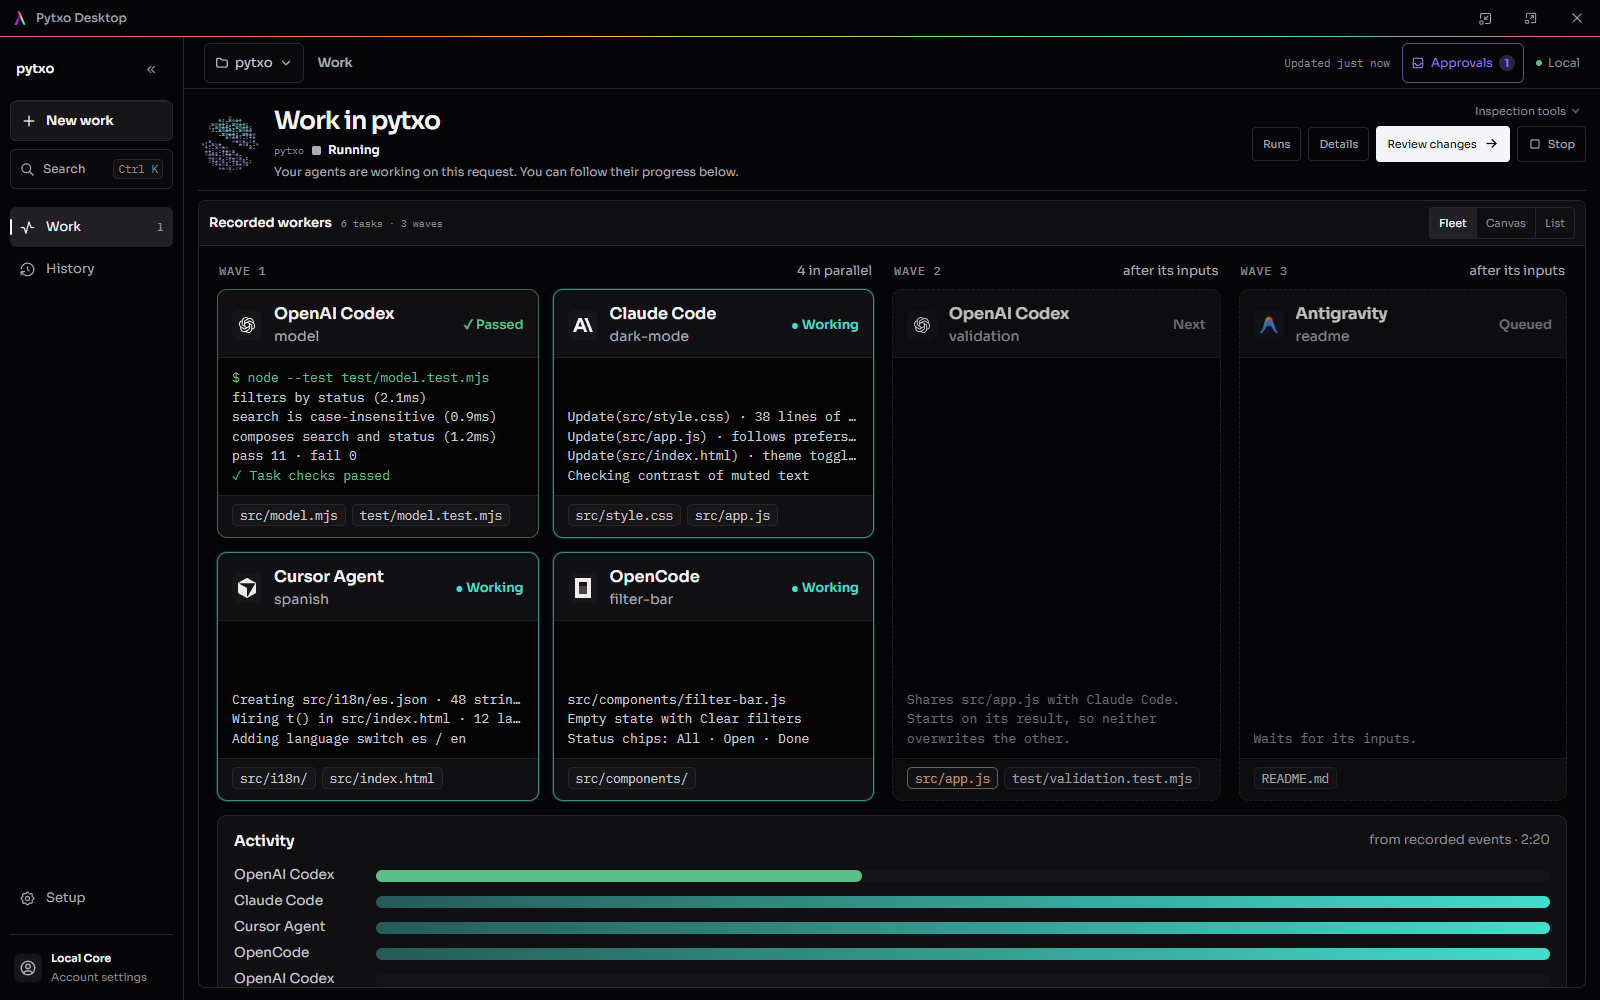
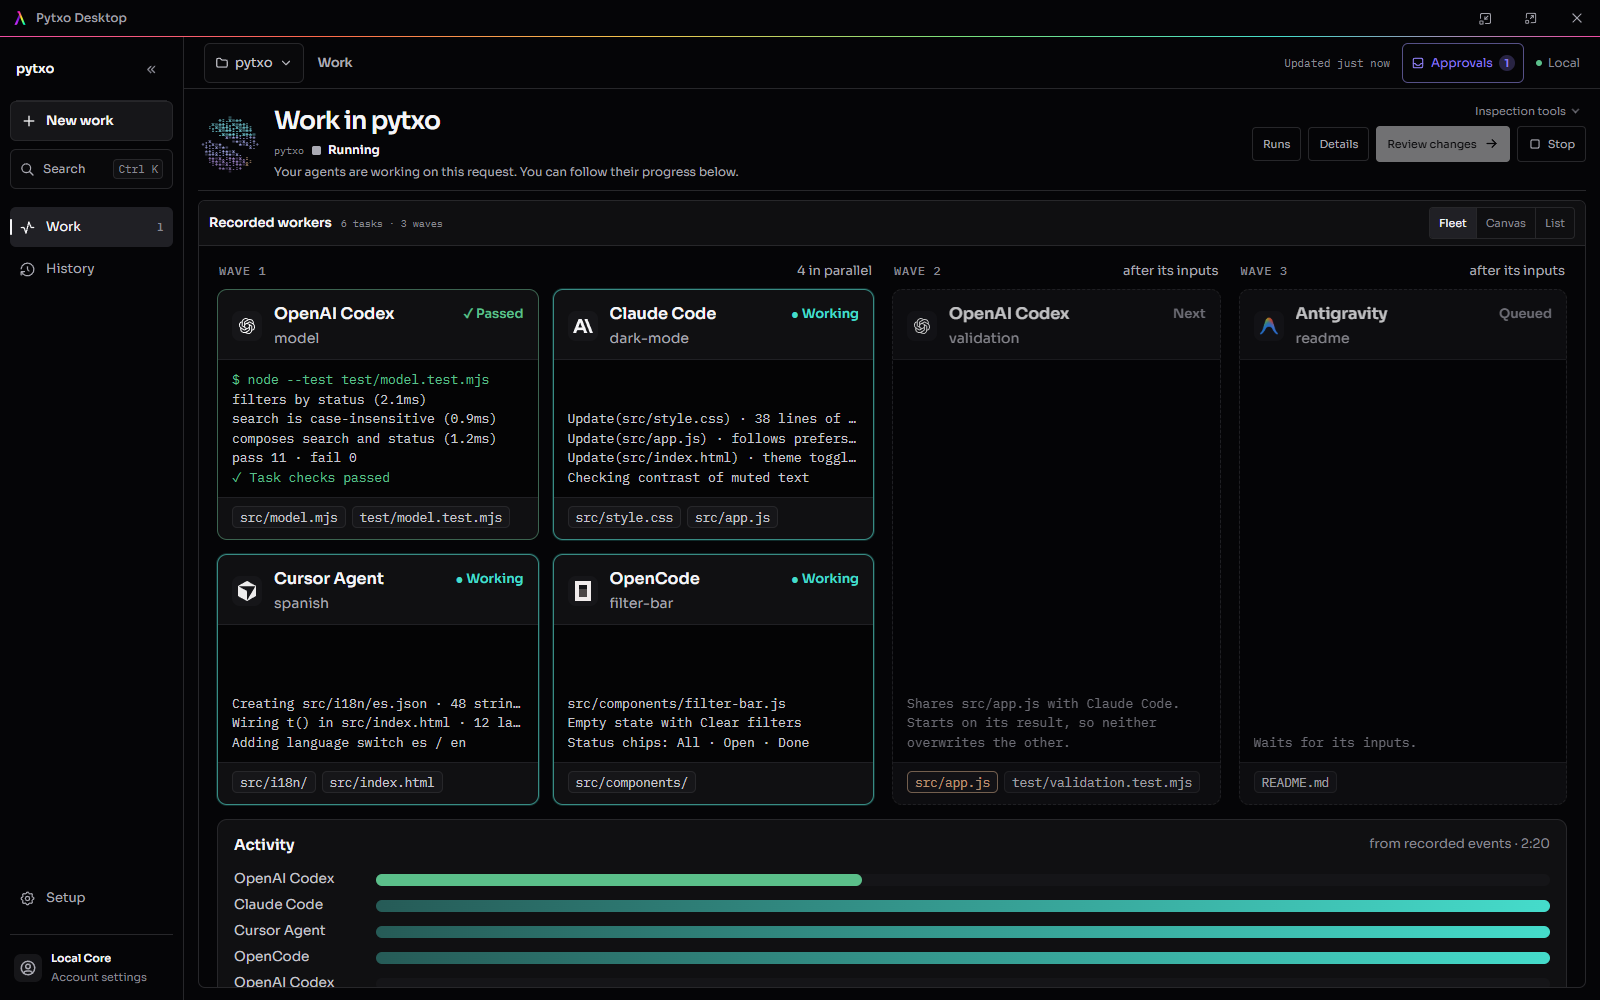
fix: honest fleet outcomes and native fleet evidence
- A worker that passed its checks but prepared no files reads 'No changes'
  on the fleet board instead of a check mark.
- A stale Apply refusal shows only the stale status, not the raw runner
  error beneath it.
- Fleet demo docs: OpenCode needs a stored provider credential because
  workers never receive environment API keys; setup commits template
  bytes without line-ending conversion.
- RELEASE_READINESS records the native six-agent run and its blockers.
- Fleet captures regenerated with the corrected card header.

diff --git a/apps/desktop/src/components/desktop2/FleetBoard.svelte b/apps/desktop/src/components/desktop2/FleetBoard.svelte
@@ -38,6 +38,8 @@
     return null;
   }
   const orderedShares = $derived(waves.flat().filter((task) => sharedOwner(task)).length);
+  /** Tasks with prepared files; null until a candidate exists. A worker can pass its checks and change nothing. */
+  const preparedTasks = $derived(review?.prepared_manifest ? new Set(review.prepared_manifest.files.map((file) => file.task_id)) : null);
 
   let tails = $state<Record<string, Tail>>({});
   let now = $state(Date.now());
@@ -134,11 +136,12 @@
             {@const lines = agent && tails[agent.id] ? eventLines(tails[agent.id].events).slice(-14) : []}
             {@const cli = cliOf(task, agent)}
             {@const vendor = vendorOf(task, agent)}
-            <article class="worker" data-tone={tone(agent)}>
+            {@const unchanged = tone(agent) === "done" && !!preparedTasks && !preparedTasks.has(task.task_id)}
+            <article class="worker" data-tone={tone(agent)} data-unchanged={unchanged || undefined}>
               <button class="head" onclick={() => agent && onInspect(agent)} disabled={!agent} aria-label={`${vendor}: ${taskDescriptions[task.task_id] ?? task.task_id}. ${state?.label ?? "Not started"}. Open output.`}>
                 <span class="logo">{#if cli}<AdeIdentity id={cli} />{/if}</span>
                 <span class="who"><strong>{vendor}</strong><small title={taskDescriptions[task.task_id]}>{taskDescriptions[task.task_id] ?? task.task_id}</small></span>
-                <span class="state">{#if tone(agent) === "done"}<span class="wide">✓ Checks passed</span><span class="narrow">✓ Passed</span>{:else}{tone(agent) === "live" ? "● Working" : tone(agent) === "queued" ? (share ? "Next" : "Queued") : state?.label ?? "Settled"}{/if}</span>
+                <span class="state">{#if unchanged}No changes{:else if tone(agent) === "done"}<span class="wide">✓ Checks passed</span><span class="narrow">✓ Passed</span>{:else}{tone(agent) === "live" ? "● Working" : tone(agent) === "queued" ? (share ? "Next" : "Queued") : state?.label ?? "Settled"}{/if}</span>
               </button>
               <div class="term" role="log" aria-label={`Recent output from ${vendor}`}>
                 {#if lines.length}
@@ -193,6 +196,7 @@
   .state { grid-column: 3; grid-row: 1; font-size: 13px; font-weight: 600; color: var(--pytxo-text-muted); white-space: nowrap; }
   .worker[data-tone="live"] .state { color: var(--pytxo-activity); }
   .worker[data-tone="done"] .state { color: var(--state-verified); }
+  .worker[data-unchanged] .state { color: var(--pytxo-text-muted); }
   .worker[data-tone="failed"] .state { color: var(--state-refuted); }
   .term { display: flex; flex: 1; flex-direction: column; justify-content: flex-end; min-height: 90px; overflow: hidden; padding: 10px 14px; border-top: 1px solid var(--pytxo-line-soft); background: color-mix(in srgb, var(--pytxo-surface-shell) 70%, black); color: var(--pytxo-text-body); font: 13px/1.5 var(--pytxo-font-mono, "IBM Plex Mono", monospace); }
   .term div { flex: none; overflow: hidden; text-overflow: ellipsis; white-space: nowrap; }

diff --git a/apps/desktop/src/lib/desktop-backend.preview.ts b/apps/desktop/src/lib/desktop-backend.preview.ts
@@ -1052,9 +1052,9 @@ export class PreviewDesktopBackend implements DesktopBackend {
         ),
       },
       apply_manifest: appliedManifest,
-      prepared_manifest: run.apply_status === "review_failed" ? null : preparedManifest,
-      prepared_digest: run.apply_status === "review_failed" ? null : preparedManifest.package_digest,
-      prepared_at: run.apply_status === "review_failed" ? null : preparedManifest.prepared_at,
+      prepared_manifest: fleet || run.apply_status === "review_failed" ? null : preparedManifest,
+      prepared_digest: fleet || run.apply_status === "review_failed" ? null : preparedManifest.package_digest,
+      prepared_at: fleet || run.apply_status === "review_failed" ? null : preparedManifest.prepared_at,
       last_apply_error: run.last_apply_error ?? lastError,
       recovery_state: recovered
         ? "rolled_back"

diff --git a/apps/desktop/e2e/review-depth.spec.ts b/apps/desktop/e2e/review-depth.spec.ts
@@ -287,6 +287,8 @@ test.describe("Review depth", () => {
     await page.getByRole("button", { name: "Apply reviewed changes" }).click();
     await page.getByRole("button", { name: "Apply exact package" }).click();
     await expect(page.locator(".review-status")).toContainText("Review is stale");
+    // The stale status explains the refusal; the raw runner error is not repeated.
+    await expect(page.locator(".action-error")).toHaveCount(0);
     await page.getByRole("link", { name: "History", exact: true }).click();
     // History reports the refreshed apply state without needing a reload.
     await expect(

diff --git a/apps/desktop/src/components/desktop2/RunReviewScreen.svelte b/apps/desktop/src/components/desktop2/RunReviewScreen.svelte
@@ -237,7 +237,9 @@
         /* Preserve the original action error; the immediate domain event is a second refresh path. */
       }
       await loadReview();
-      error = actionError;
+      // A refusal that left the review stale is explained by its status; the
+      // runner's own wording would only repeat it in internal terms.
+      error = presentation.state === "stale" ? "" : actionError;
     } finally {
       actionPending = false;
     }

diff --git a/RELEASE_READINESS.md b/RELEASE_READINESS.md
@@ -1,5 +1,47 @@
 # Pytxo v1.2.2 release readiness
 
+## October 2 — native six-agent fleet run, five vendors, Review → stale → Apply
+
+**Decision: NOT READY for public Beta.** The mixed-CLI fleet works end to end
+natively; the run exposed defects now fixed in source but not yet in a rebuilt
+MSI, and two external blockers remain. Local commits only; nothing pushed.
+
[2 lines of base64/hex data omitted]
+unsigned; extracted payload, isolated `PYTXO_HOME`/trust store/WebView2, CDP;
+folder chosen through the real OS dialog): `docs/demo/fleet` fixture, one
+request, plan 6 tasks in 4 → 1 → 1 waves across OpenAI Codex, Claude Code,
+Cursor Agent, OpenCode, Antigravity and Codex. Four workers ran concurrently on
+the fleet board. All six exited 0 with task checks passing (14 m 28 s); combined
+checks passed; Review listed 7 files, each named with the CLI that prepared it
+(Codex 3, Cursor Agent 2, Claude Code 2). An unrelated `operator-note.txt`
+made Apply refuse as stale; after removing it and refreshing (digest
+`2c6b6cac…957b`), Apply wrote exactly the 7 paths, the ledger records
+`applied`, and the fixture's `npm test` passed 10/10 (baseline 3). Evidence and
+ledger export: `D:/pytxo-native-acceptance/fleet-20261002b`.
+
+Defects found in that run and fixed since (tests cover each):
+
+- A finished worker read as running until the whole plan returned; workers now
+  settle when they exit (`agent-exit`).
+- OpenCode and Antigravity exited 0 without editing anything. OpenCode could
+  not find its OpenRouter model because workers do not receive host env keys;
+  Desktop called it connected anyway. Readiness now counts only stored
+  credentials. Antigravity's headless mode auto-denied a command and gave up;
+  the task handoff now tells workers Pytxo runs the checks, so they edit
+  directly. The fleet board marks a passing worker that prepared no files as
+  "No changes".
+- Onboarding said to start with Codex and listed Gemini CLI instead of
+  Antigravity; a picked folder could not be changed.
+- Fleet cards truncated vendor names at native width.
+- A stale refusal repeated the raw runner error under the stale status.
+
+Blockers before the film run: store the OpenRouter key in OpenCode
+(`opencode auth login`; the OpenCode Zen credential has no funds and its free
+tier refuses outside OpenCode), then rebuild the MSI and repeat this run.
+Antigravity's public mark still needs Google's compatibility-use approval or
+removal (see `apps/desktop/public/ade/PROVENANCE.md`).
+
 ## October 1 — consolidated source, full local gates, native Codex Review → Apply
 
 **Decision: NOT READY for public Beta; locally verified candidate.** Source is

diff --git a/docs/demo/fleet/README.md b/docs/demo/fleet/README.md
@@ -23,9 +23,12 @@ pins this plan shape, so a planner change that alters it fails in CI.
 - Windows x64 with Git and Node.js on `PATH`.
 - Pytxo Desktop from the release candidate MSI.
 - Signed in and on `PATH`: `codex`, `claude`, `cursor-agent`, `opencode`, `agy`.
-- OpenCode needs a model that supports tool calls. The fixture's
-  `opencode.json` pins `openrouter/~moonshotai/kimi-latest`; change it if your
-  OpenCode account uses another provider.
+- OpenCode needs a model that supports tool calls, from a provider stored with
+  `opencode auth login`. Pytxo does not pass environment API keys such as
+  `OPENROUTER_API_KEY` to workers, so a key that exists only in your
+  environment is not enough. The fixture's `opencode.json` pins
+  `openrouter/~moonshotai/kimi-latest`; change it to match your stored
+  provider.
 
 Each CLI runs on your own account and may consume its quota.
 
